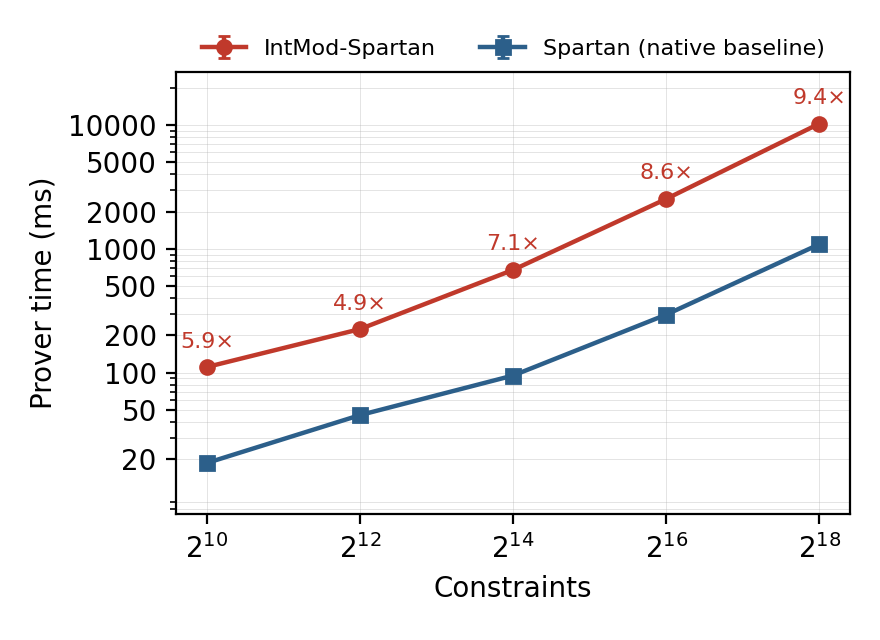
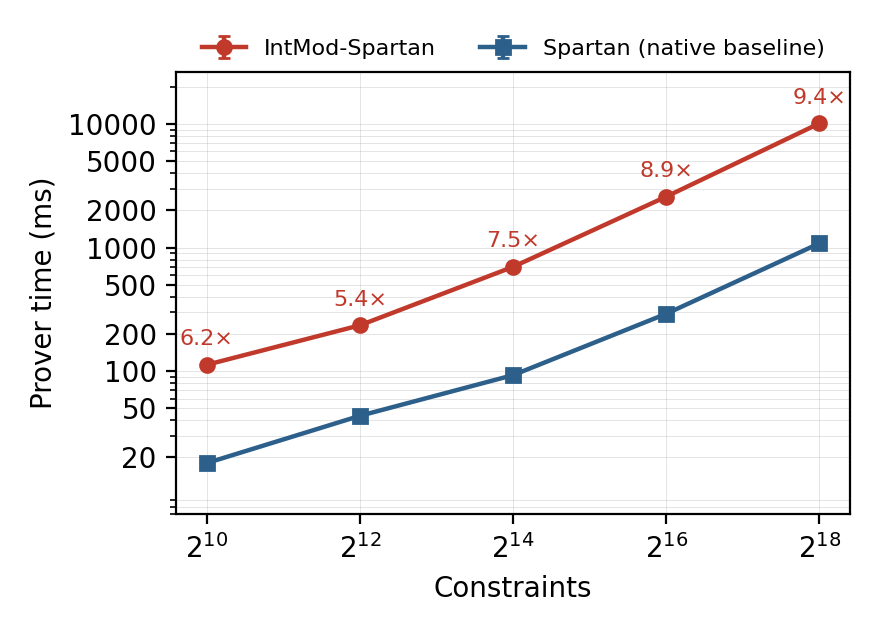
updated numbers

Changed region(s): [[0.092, 0.1562, 0.9818, 0.75], [0.1841, 0.7812, 0.9511, 0.8125]]

diff --git a/docs/plots/msshape_prove_pgf.tex b/docs/plots/msshape_prove_pgf.tex
@@ -19,15 +19,15 @@
     error bars/y dir=both, error bars/y explicit,
   ]
     \addplot[ourscolor, thick, mark=*, mark size=1.8pt]
-      coordinates {(10,111.323) +- (2.470,1.653) (12,225.279) +- (0.927,3.132) (14,676.837) +- (3.080,7.803) (16,2531.511) +- (6.651,28.514) (18,10255.402) +- (110.419,73.878)};
+      coordinates {(10,112.616) +- (0.239,0.128) (12,235.047) +- (0.458,0.616) (14,698.643) +- (1.782,5.500) (16,2584.331) +- (6.972,22.111) (18,10118.852) +- (6.104,31.126)};
     \addlegendentry{IntMod-Spartan}
     \addplot[basecolor, thick, mark=square*, mark size=1.8pt]
-      coordinates {(10,18.716) +- (0.099,0.234) (12,45.545) +- (0.287,0.233) (14,95.049) +- (0.521,0.259) (16,294.705) +- (1.658,1.545) (18,1090.200) +- (2.956,2.396)};
+      coordinates {(10,18.035) +- (0.075,0.036) (12,43.499) +- (0.197,0.360) (14,92.826) +- (0.133,0.213) (16,291.150) +- (1.153,0.994) (18,1081.596) +- (2.938,4.114)};
     \addlegendentry{Spartan (native baseline)}
-    \node[above=2pt, ourscolor, font=\scriptsize] at (axis cs:10,111.323) {5.9$\times$};
-    \node[above=2pt, ourscolor, font=\scriptsize] at (axis cs:12,225.279) {4.9$\times$};
-    \node[above=2pt, ourscolor, font=\scriptsize] at (axis cs:14,676.837) {7.1$\times$};
-    \node[above=2pt, ourscolor, font=\scriptsize] at (axis cs:16,2531.511) {8.6$\times$};
-    \node[above=2pt, ourscolor, font=\scriptsize] at (axis cs:18,10255.402) {9.4$\times$};
+    \node[above=2pt, ourscolor, font=\scriptsize] at (axis cs:10,112.616) {6.2$\times$};
+    \node[above=2pt, ourscolor, font=\scriptsize] at (axis cs:12,235.047) {5.4$\times$};
+    \node[above=2pt, ourscolor, font=\scriptsize] at (axis cs:14,698.643) {7.5$\times$};
+    \node[above=2pt, ourscolor, font=\scriptsize] at (axis cs:16,2584.331) {8.9$\times$};
+    \node[above=2pt, ourscolor, font=\scriptsize] at (axis cs:18,10118.852) {9.4$\times$};
   \end{axis}
 \end{tikzpicture}

diff --git a/docs/plots/msshape_verify_pgf.tex b/docs/plots/msshape_verify_pgf.tex
@@ -19,15 +19,15 @@
     error bars/y dir=both, error bars/y explicit,
   ]
     \addplot[ourscolor, thick, mark=*, mark size=1.8pt]
-      coordinates {(10,26.316) +- (0.071,0.391) (12,28.066) +- (0.136,0.299) (14,26.737) +- (0.232,0.204) (16,55.613) +- (0.692,2.403) (18,171.033) +- (9.264,10.134)};
+      coordinates {(10,27.807) +- (0.046,0.090) (12,29.448) +- (0.117,0.111) (14,27.813) +- (0.270,0.075) (16,56.743) +- (0.327,0.262) (18,158.227) +- (1.149,0.763)};
     \addlegendentry{IntMod-Spartan}
     \addplot[basecolor, thick, mark=square*, mark size=1.8pt]
-      coordinates {(10,14.476) +- (0.049,0.090) (12,15.060) +- (0.068,0.228) (14,16.354) +- (0.067,0.099) (16,22.595) +- (0.179,0.100) (18,47.626) +- (0.951,2.008)};
+      coordinates {(10,13.920) +- (0.024,0.053) (12,14.459) +- (0.056,0.042) (14,16.102) +- (0.096,0.015) (16,22.555) +- (0.491,0.304) (18,48.772) +- (0.470,0.187)};
     \addlegendentry{Spartan (native baseline)}
-    \node[above=2pt, ourscolor, font=\scriptsize] at (axis cs:10,26.316) {1.8$\times$};
-    \node[above=2pt, ourscolor, font=\scriptsize] at (axis cs:12,28.066) {1.9$\times$};
-    \node[above=2pt, ourscolor, font=\scriptsize] at (axis cs:14,26.737) {1.6$\times$};
-    \node[above=2pt, ourscolor, font=\scriptsize] at (axis cs:16,55.613) {2.5$\times$};
-    \node[above=2pt, ourscolor, font=\scriptsize] at (axis cs:18,171.033) {3.6$\times$};
+    \node[above=2pt, ourscolor, font=\scriptsize] at (axis cs:10,27.807) {2.0$\times$};
+    \node[above=2pt, ourscolor, font=\scriptsize] at (axis cs:12,29.448) {2.0$\times$};
+    \node[above=2pt, ourscolor, font=\scriptsize] at (axis cs:14,27.813) {1.7$\times$};
+    \node[above=2pt, ourscolor, font=\scriptsize] at (axis cs:16,56.743) {2.5$\times$};
+    \node[above=2pt, ourscolor, font=\scriptsize] at (axis cs:18,158.227) {3.2$\times$};
   \end{axis}
 \end{tikzpicture}

diff --git a/docs/plots/msshape_table.tex b/docs/plots/msshape_table.tex
@@ -16,11 +16,11 @@
     \cmidrule(lr){2-4} \cmidrule(lr){5-7}
     Constraints & Ours & Spartan & Ratio & Ours & Spartan & Ratio \\
     \midrule
-    $2^{10}$ & 111 & 18.7 & 6$\times$ & 26.3 & 14.5 & 1.8$\times$ \\
-    $2^{12}$ & 225 & 45.5 & 5$\times$ & 28.1 & 15.1 & 1.9$\times$ \\
-    $2^{14}$ & 677 & 95.0 & 7$\times$ & 26.7 & 16.4 & 1.6$\times$ \\
-    $2^{16}$ & 2532 & 294.7 & 9$\times$ & 55.6 & 22.6 & 2.5$\times$ \\
-    $2^{18}$ & 10255 & 1090.2 & 9$\times$ & 171.0 & 47.6 & 3.6$\times$ \\
+    $2^{10}$ & 113 & 18.0 & 6$\times$ & 27.8 & 13.9 & 2.0$\times$ \\
+    $2^{12}$ & 235 & 43.5 & 5$\times$ & 29.4 & 14.5 & 2.0$\times$ \\
+    $2^{14}$ & 699 & 92.8 & 8$\times$ & 27.8 & 16.1 & 1.7$\times$ \\
+    $2^{16}$ & 2584 & 291.1 & 9$\times$ & 56.7 & 22.6 & 2.5$\times$ \\
+    $2^{18}$ & 10119 & 1081.6 & 9$\times$ & 158.2 & 48.8 & 3.2$\times$ \\
     \bottomrule
   \end{tabular}
 \end{table}

diff --git a/README.md b/README.md
@@ -124,21 +124,21 @@ the serialized eval argument so its compressed size can be measured
 All numbers are single-threaded (`RAYON_NUM_THREADS=1`) on a MacBook (Apple M4 Pro, 24 GB RAM, 14 cores); all baselines were re-run on the same machine.
 
 ### MultiSwap benchmark
-The MultiSwap [OWWB20](https://eprint.iacr.org/2019/1494) benchmark is two RSA accumulator updates (4 Wesolowski exponentiations with 352-bit exponents modulo an RSA-2048 modulus) plus a Poseidon-based hash-to-prime evaluation.
+The MultiSwap [OWWB20](https://eprint.iacr.org/2019/1494) benchmark is two RSA accumulator updates (4 Wesolowski exponentiations with 322-bit exponents modulo an RSA-2048 modulus) plus a Poseidon-based hash-to-prime evaluation.
 
 Constraint counts for Limber are integer gates; [Zinc+](https://eprint.iacr.org/2026/855)'s is the size of its execution trace; the others are ordinary R1CS constraints over a prime field.
 The two circuit rows are proven with the same Spartan prover as Limber (Hyrax over BLS12-381, the field of both circuits), so the comparison isolates the arithmetization. Proof sizes are zstd-compressed.
 
 | System | Constraints | Prove | Verify | Proof size |
 | --- | ---: | ---: | ---: | ---: |
-| Arkworks circuit (emulated field arithmetic) + Spartan | 26.4 M | 68.0 s | 7.27 s | 857 KB |
-| MultiSwap [OWWB20](https://eprint.iacr.org/2019/1494) circuit (xJsnark techniques) + Spartan | 10.7 M | 29.0 s | 3.9 s | 463 KB |
-| [Zinc+](https://eprint.iacr.org/2026/855) (full statement ported to their framework) | 2^11 × 248 trace | 9.85 s | 347 ms | 0.94 MB |
+| Arkworks circuit (emulated field arithmetic) + Spartan | 26.4 M | 63.7 s | 5.74 s | 857 KB |
+| MultiSwap [OWWB20](https://eprint.iacr.org/2019/1494) circuit (xJsnark techniques) + Spartan | 10.7 M | 31.5 s | 4.30 s | 463 KB |
+| [Zinc+](https://eprint.iacr.org/2026/855) (full computation ported to their framework) | 2^11 × 248 trace | 10.2 s | 363 ms | 0.94 MB |
 | **Limber-Spartan (Hyrax)** | 12,796 | **2.11 s** | **64 ms** | **273 KB** |
-| **Limber-Spartan (Brakedown)** | 12,796 | **2.16 s** | **55 ms** | 8.2 MB |
+| **Limber-Spartan (Brakedown)** | 12,796 | **2.07 s** | **59 ms** | 8.2 MB |
 
-Limber's Hyrax prover is 14× faster than the MultiSwap circuit and 32× faster than the Arkworks circuit under the same Spartan prover.
-Against Zinc+, the Hyrax prover is 4.7× faster, the verifier 5.4× faster, and the proof 3.4× smaller (273 KB vs. 0.94 MB).
+Limber's Hyrax prover is 15× faster than the MultiSwap circuit and 30× faster than the Arkworks circuit under the same Spartan prover.
+Against Zinc+, the Hyrax prover is 4.8× faster, the verifier 5.8× faster, and the proof 3.4× smaller (273 KB vs. 0.94 MB).
 
 ### Poseidon2 benchmark
 Thirty Poseidon2 compressions (t = 3, α = 5, R_F = 8, R_P = 56) over three different non-native prime fields in one proof: three independent ten-hash chains over BN254-Fr, BLS12-381-Fr, and secp256k1-Fr.
@@ -146,12 +146,12 @@ The circuit baseline uses a limb-emulated field gadget (`bellpepper-emulated`, 4
 
 | System | Constraints | Prove | Verify | Proof size |
 | --- | ---: | ---: | ---: | ---: |
-| Emulated-field circuit + Spartan | 9.45 M | 12.4 s | 1.52 s | 340 KB |
-| [Zinc+](https://eprint.iacr.org/2026/855) (Poseidon2 UAIR in their framework) | 2^10 × 72 trace | 544 ms | 31.0 ms | 3.4 MB |
-| **Limber-Spartan (Hyrax)** | 12,990 | **436 ms** | **27.5 ms** | **136 KB** |
-| **Limber-Spartan (Brakedown)** | 12,990 | **335 ms** | 36.2 ms | 3.8 MB |
+| Emulated-field circuit + Spartan | 9.45 M | 10.6 s | 1.53 s | 340 KB |
+| [Zinc+](https://eprint.iacr.org/2026/855) (Poseidon2 UAIR in their framework) | 2^10 × 72 trace | 528 ms | 29.8 ms | 3.4 MB |
+| **Limber-Spartan (Hyrax)** | 12,990 | **438 ms** | **24.7 ms** | **136 KB** |
+| **Limber-Spartan (Brakedown)** | 12,990 | **334 ms** | 33.0 ms | 3.8 MB |
 
-Limber's Hyrax prover is 28× faster than the circuit baseline with a 55× faster verifier and a 2.5× smaller proof, and 1.2× (1.6× with Brakedown) faster than Zinc+ with a comparable verifier and a 25× smaller proof.
+Limber's Hyrax prover is 24× faster than the circuit baseline with a 62× faster verifier and a 2.5× smaller proof, and 1.2× (1.6× with Brakedown) faster than Zinc+ with a 1.2× faster verifier and a 25× smaller proof.
 
 ### Non-native overhead relative to native constraints
 This experiment compares Limber against a plain-Spartan baseline with the same constraint and variable counts.
@@ -160,11 +160,11 @@ Prover time includes witness generation and commitment.
 
 | Constraints | Prove (Limber) | Prove (Spartan) | Ratio | Verify (Limber) | Verify (Spartan) | Ratio |
 | --- | ---: | ---: | ---: | ---: | ---: | ---: |
-| 2^10 | 111 ms | 18.7 ms | 6× | 26.3 ms | 14.5 ms | 1.8× |
-| 2^12 | 225 ms | 45.5 ms | 5× | 28.1 ms | 15.1 ms | 1.9× |
-| 2^14 | 677 ms | 95.0 ms | 7× | 26.7 ms | 16.4 ms | 1.6× |
-| 2^16 | 2.53 s | 295 ms | 9× | 55.6 ms | 22.6 ms | 2.5× |
-| 2^18 | 10.3 s | 1.09 s | 9× | 171 ms | 47.6 ms | 3.6× |
+| 2^10 | 113 ms | 18.0 ms | 6× | 27.8 ms | 13.9 ms | 2.0× |
+| 2^12 | 235 ms | 43.5 ms | 5× | 29.4 ms | 14.5 ms | 2.0× |
+| 2^14 | 699 ms | 92.8 ms | 8× | 27.8 ms | 16.1 ms | 1.7× |
+| 2^16 | 2.58 s | 291 ms | 9× | 56.7 ms | 22.6 ms | 2.5× |
+| 2^18 | 10.1 s | 1.08 s | 9× | 158 ms | 48.8 ms | 3.2× |
 
 We demonstrate a low (5–9×) prover overhead for large 256-bit non-native gates compared to proving completely native constraints. Both provers are linear in the constraint count; the ratio rises with size because plain Spartan's fixed costs amortize faster.
 
@@ -174,7 +174,7 @@ All numbers quoted in the paper are **single-threaded** (`RAYON_NUM_THREADS=1`) 
 
 ### MultiSwap table (Table 1 of the paper)
 
-Both of the Limber rows prove the full OWWB20 computation (`MSCFG=full`, the default): the 4 fully wired Wesolowski exponentiations with 352-bit exponents mod an RSA-2048 modulus, the Poseidon hashes, and the Pocklington hash-to-prime certificate resulting in 12,796 integer constraints, padded to $2^{14}$. Set `PSDUMP=<path>` with `PSIZE=1` to write the proof bytes for compression.
+Both of the Limber rows prove the full OWWB20 computation (`MSCFG=full`, the default): the 4 fully wired Wesolowski exponentiations with 322-bit exponents mod an RSA-2048 modulus, the Poseidon hashes, and the Pocklington hash-to-prime certificate resulting in 12,796 integer constraints, padded to $2^{14}$. Set `PSDUMP=<path>` with `PSIZE=1` to write the proof bytes for compression.
 
 **Hyrax row**:
 
@@ -199,8 +199,8 @@ This instantiation defaults to `k = 11` (faster than `k = 9` for the hash backen
 We ported the circuit into Zinc+'s framework ([`NethermindEth/zinc-plus`](https://github.com/NethermindEth/zinc-plus), `main-beta`) as a 2^11-row, 248-column trace with one modular multiplication per row, and ran their folded prover at code rate 1/8 and 114-bit security:
 
 ```bash
-FULL=1 NVARS=11 RAYON_NUM_THREADS=1 RUSTFLAGS="-C target-cpu=native" \
-  cargo bench --bench e2e --features "simd unchecked iprs-rate-1-8 sec-114"
+FULL=1 FOLD=1 NVARS=11 RAYON_NUM_THREADS=1 RUSTFLAGS="-C target-cpu=native" \
+  cargo bench --bench limber_multiswap --features "simd unchecked iprs-rate-1-8 sec-114"
 ```
 
 ### Poseidon2 table (Table 4 of the paper)
@@ -212,7 +212,7 @@ RAYON_NUM_THREADS=1 RUSTFLAGS="-C target-cpu=native" scripts/run_poseidon_bench.
 RAYON_NUM_THREADS=1 RUSTFLAGS="-C target-cpu=native" scripts/run_poseidon_spartan_bench.sh  # circuit baseline; PSIZE=1 for the proof size
 ```
 
-Both use k = 9. The Zinc+ row is their `poseidon` bench (`qz` variant, 256-bit sampled prime, square shape; with a 320-bit prime: 568 ms / 33.2 ms / 3.1 MB) built with `--features simd` at commit `334f09e` of our fork of `zinc-plus`.
+Both use k = 9. The Zinc+ row is their `poseidon` bench (`qz` variant, 256-bit sampled prime, square shape; with a 320-bit prime: 546 ms / 32.3 ms / 3.1 MB) built with `--features simd` at commit `334f09e` of our fork of `zinc-plus`.
 
 ### Native-overhead figure (Figure 3 of the paper)
 We use Limber-Spartan with Hyrax in this comparison. To generate the data and plots, run:
@@ -222,7 +222,7 @@ RAYON_NUM_THREADS=1 ./scripts/regen_msshape_plots.sh
 ```
 
 This runs the pair of benchmarks (`cargo bench --bench imod_spartan_modp -- msshape` vs `cargo bench --bench spartan_synthetic -- msshape`) and renders the figures via `scripts/plot_msshape.py`.
-We get 5–9× prover overhead over plain Spartan at $2^{10}\text{–}2^{18}$ constraints; verify is under 30 ms vs 14–16 ms up to $2^{14}$ and 171 ms vs 48 ms at $2^{18}$. Proof size is 125–162 KB vs ~68 KB up to $2^{14}$.
+We get 5–9× prover overhead over plain Spartan at $2^{10}\text{–}2^{18}$ constraints; verify is under 30 ms vs 14–16 ms up to $2^{14}$ and 158 ms vs 49 ms at $2^{18}$.
 
 ## References
 [Limber: Low Overhead SNARKs for Integers from Any PCS](https://eprint.iacr.org/2026/1635) — the protocol this repository implements.
